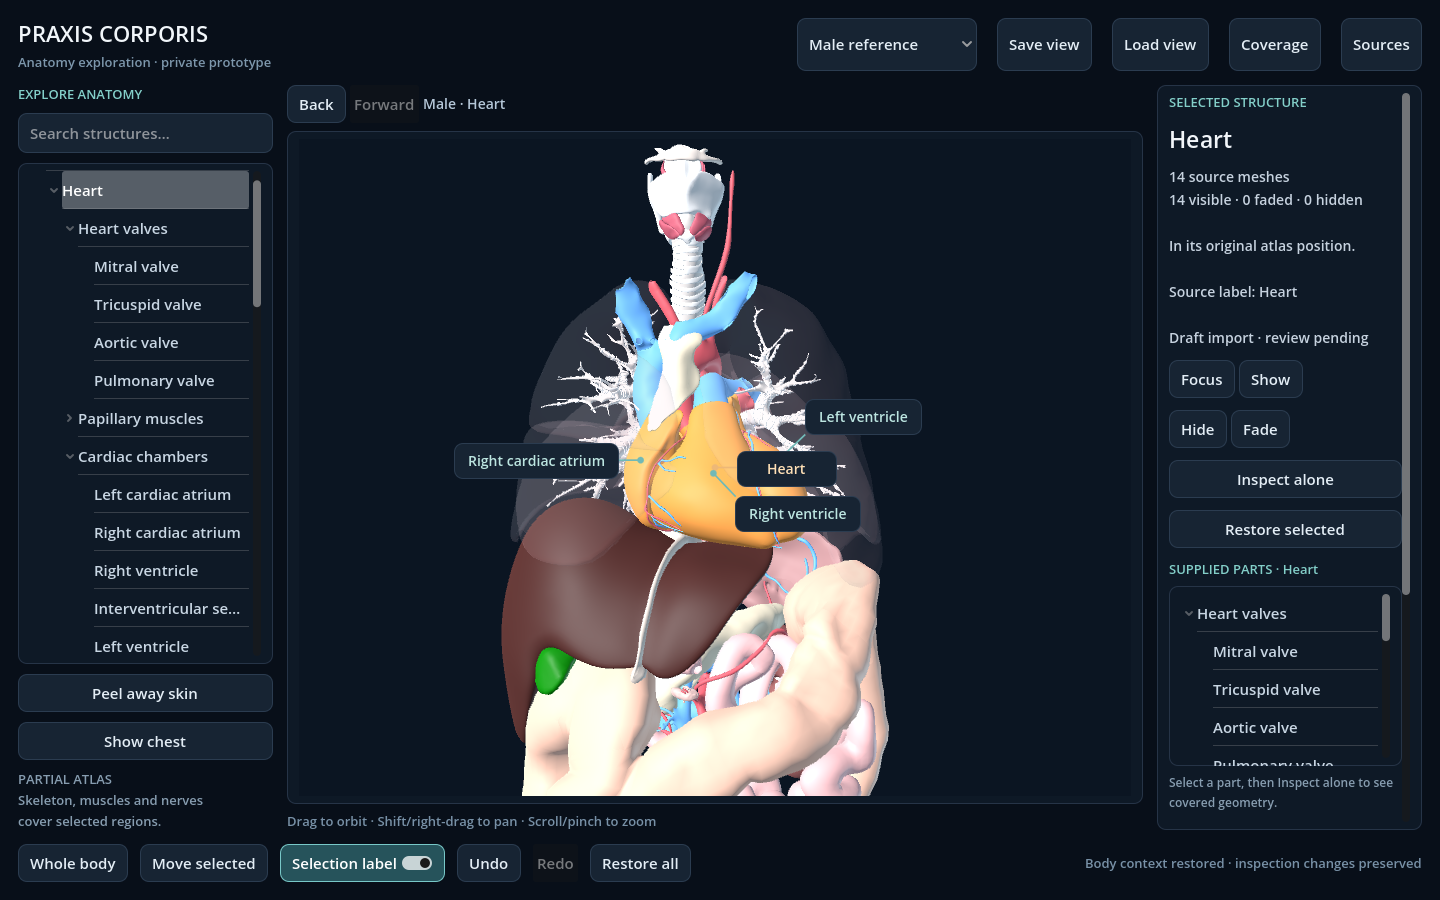
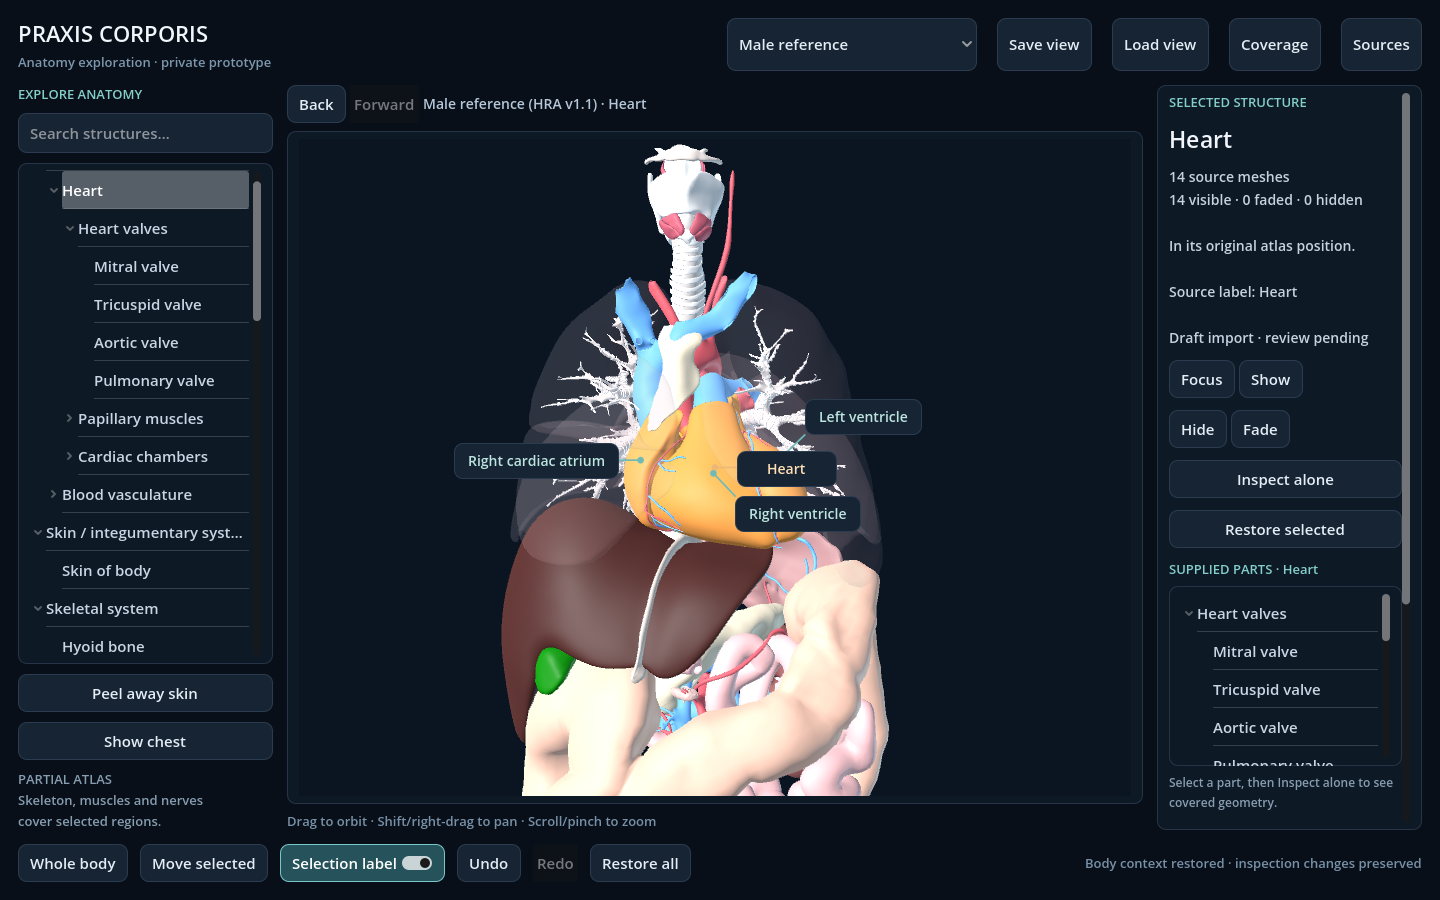
Record three-reference native packages and Windows rendering evidence

diff --git a/docs/FEASIBILITY_RESULTS.md b/docs/FEASIBILITY_RESULTS.md
@@ -268,3 +268,14 @@ display, and full-viewer captures were inspected at normal/smaller window settin
 
 The bone source adds useful geometry without closing comprehensive two-body coverage,
 medical review, source registration, authored cutaway/pathway or public-release gates.
+
+The packages from source commit `1875028` include all three prepared references.
+Their archive CRCs, content notices, source snapshots and SHA-256 hashes were verified.
+The actual Windows executable passed native AMD desktop rendering, surface-label and
+inspection/restoration checks for 801 female, 788 male and 203 bone-study meshes,
+with exit code 0. All three 1440 × 900 captures were produced; the separate skeleton
+capture was inspected. This is scripted device evidence, without a sustained FPS
+or human-input acceptance claim. The Mac embedded content passed on the development
+engine; Mac device execution is still open. Exact evidence is recorded in
+[windows-study-rendered-qa.json](audit/windows-study-rendered-qa.json) and
+[native-build-report.json](audit/native-build-report.json).
